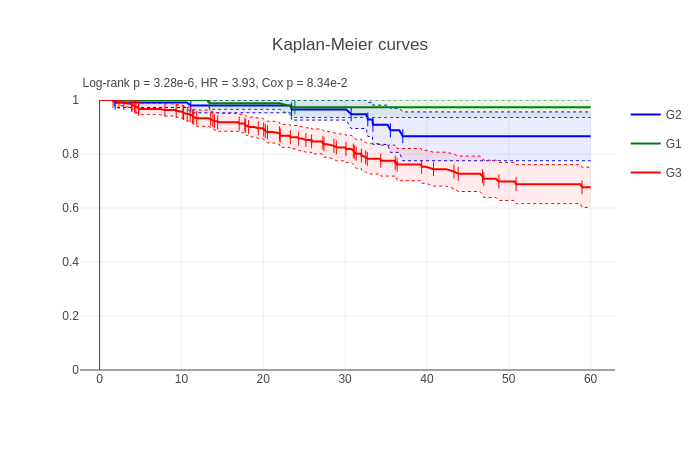
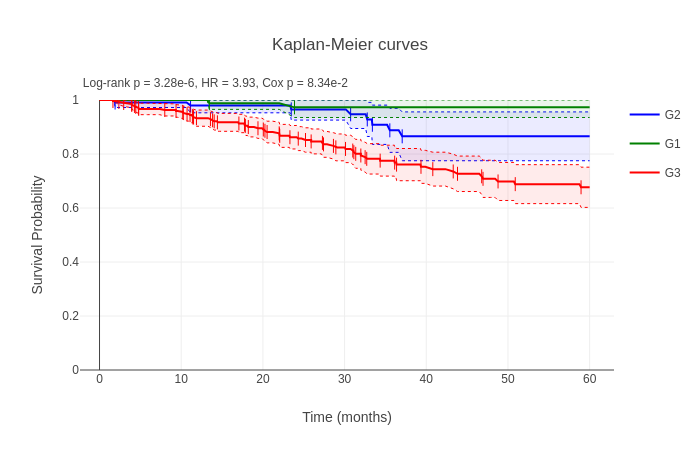
axis titles

diff --git a/dash_kaplan_meier/setup.py b/dash_kaplan_meier/setup.py
@@ -13,14 +13,19 @@ setup(
     name=package_name,
     version=package["version"],
     author=package['author'],
+    author_email="llbt.nvs.x@gmail.com",
     packages=[package_name],
     include_package_data=True,
     license=package['license'],
     description=package.get('description', package_name),
     long_description=long_description,
     long_description_content_type="text/markdown",
-    install_requires=[],
+    install_requires=[
+        "dash",
+        "lifelines",
+    ],
     classifiers = [
         'Framework :: Dash',
     ],    
+    url="https://github.com/XLlobet/dash-kaplan-meier",
 )

diff --git a/dash_kaplan_meier/usage.py b/dash_kaplan_meier/usage.py
@@ -34,8 +34,8 @@ app.layout  = html.Div([
         coxP            = stats["cox_p"],
         hazardRatio     = stats["hazard_ratio"],
         layout          ={  'title': 'Kaplan-Meier Survival Curve Example',
-                            'xaxis': {'title': 'Time'},
-                            'yaxis': {'title': 'Survival Probability'}},
+                            "xaxis": {"title": {"text": "Time (months)"}},
+                            "yaxis": {"title": {"text": "Survival Probability"}}},
         title           = "Kaplan-Meier curves",
         config          = {'responsive': True}
     )

diff --git a/dash_kaplan_meier/README.md b/dash_kaplan_meier/README.md
@@ -58,8 +58,8 @@ app.layout = html.Div([
         coxP            = stats["cox_p"],
         hazardRatio     = stats["hazard_ratio"],
         layout          ={  'title': 'Kaplan-Meier Survival Curve Example',
-                            'xaxis': {'title': 'Time'},
-                            'yaxis': {'title': 'Survival Probability'}},
+                            "xaxis": {"title": {"text": "Time (months)"}},
+                            "yaxis": {"title": {"text": "Survival Probability"}},},
         title           = "Kaplan-Meier curves",
         config          = {'responsive': True}
     )
@@ -76,7 +76,7 @@ if __name__ == '__main__':
 
 ## Contributing
 
-See [CONTRIBUTING.md](./dash_kaplan_meier/CONTRIBUTING.md)
+See [CONTRIBUTING.md](https://github.com/XLlobet/dash-kaplan-meier/blob/main/dash_kaplan_meier/CONTRIBUTING.md)
 
 ## License
 
